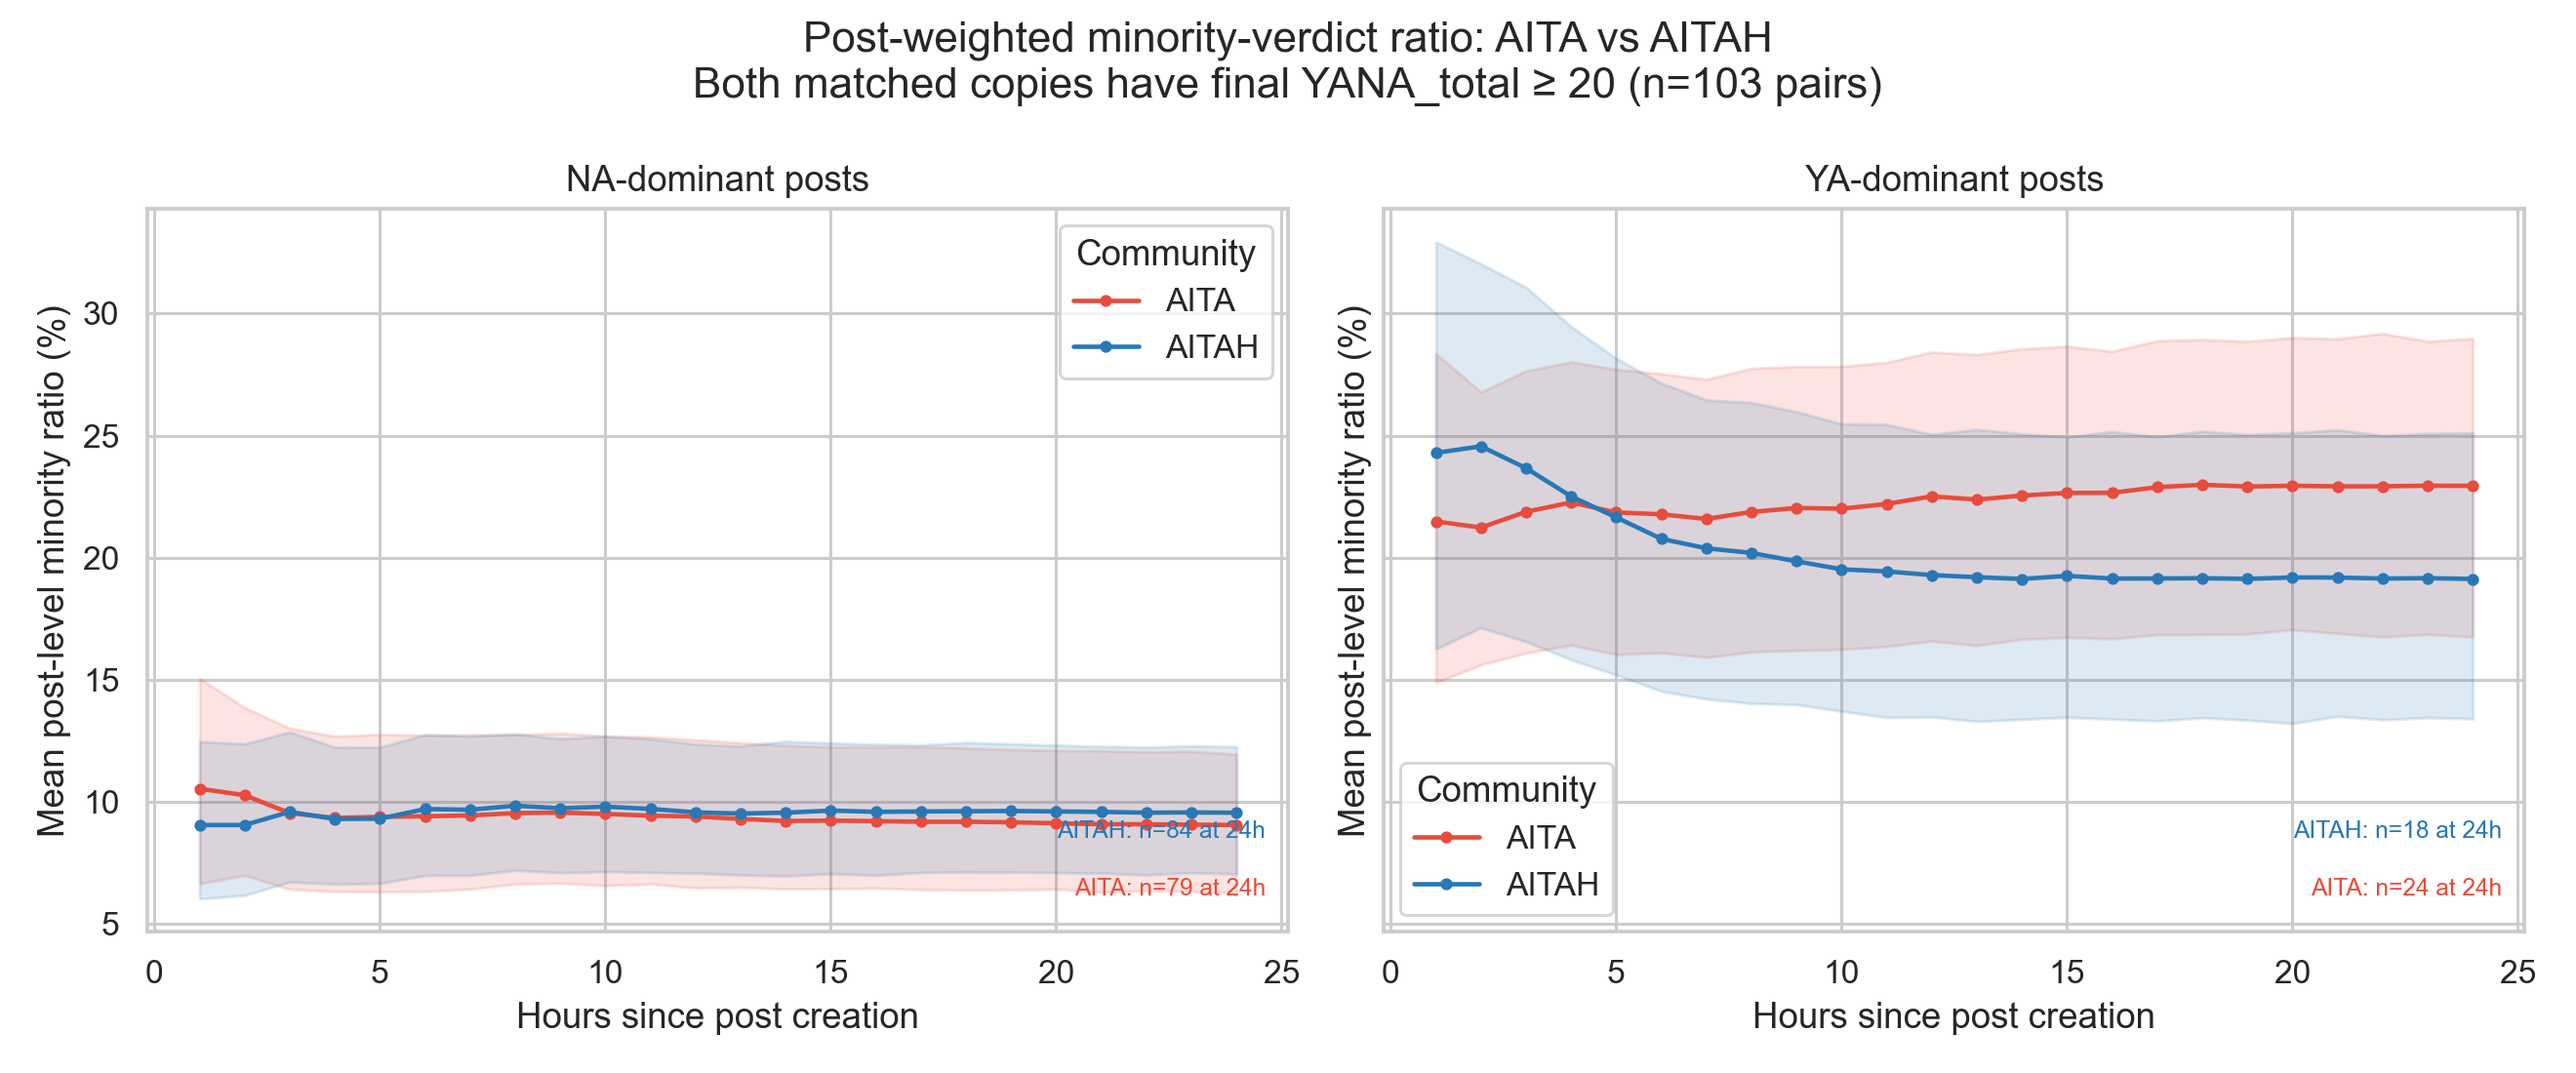
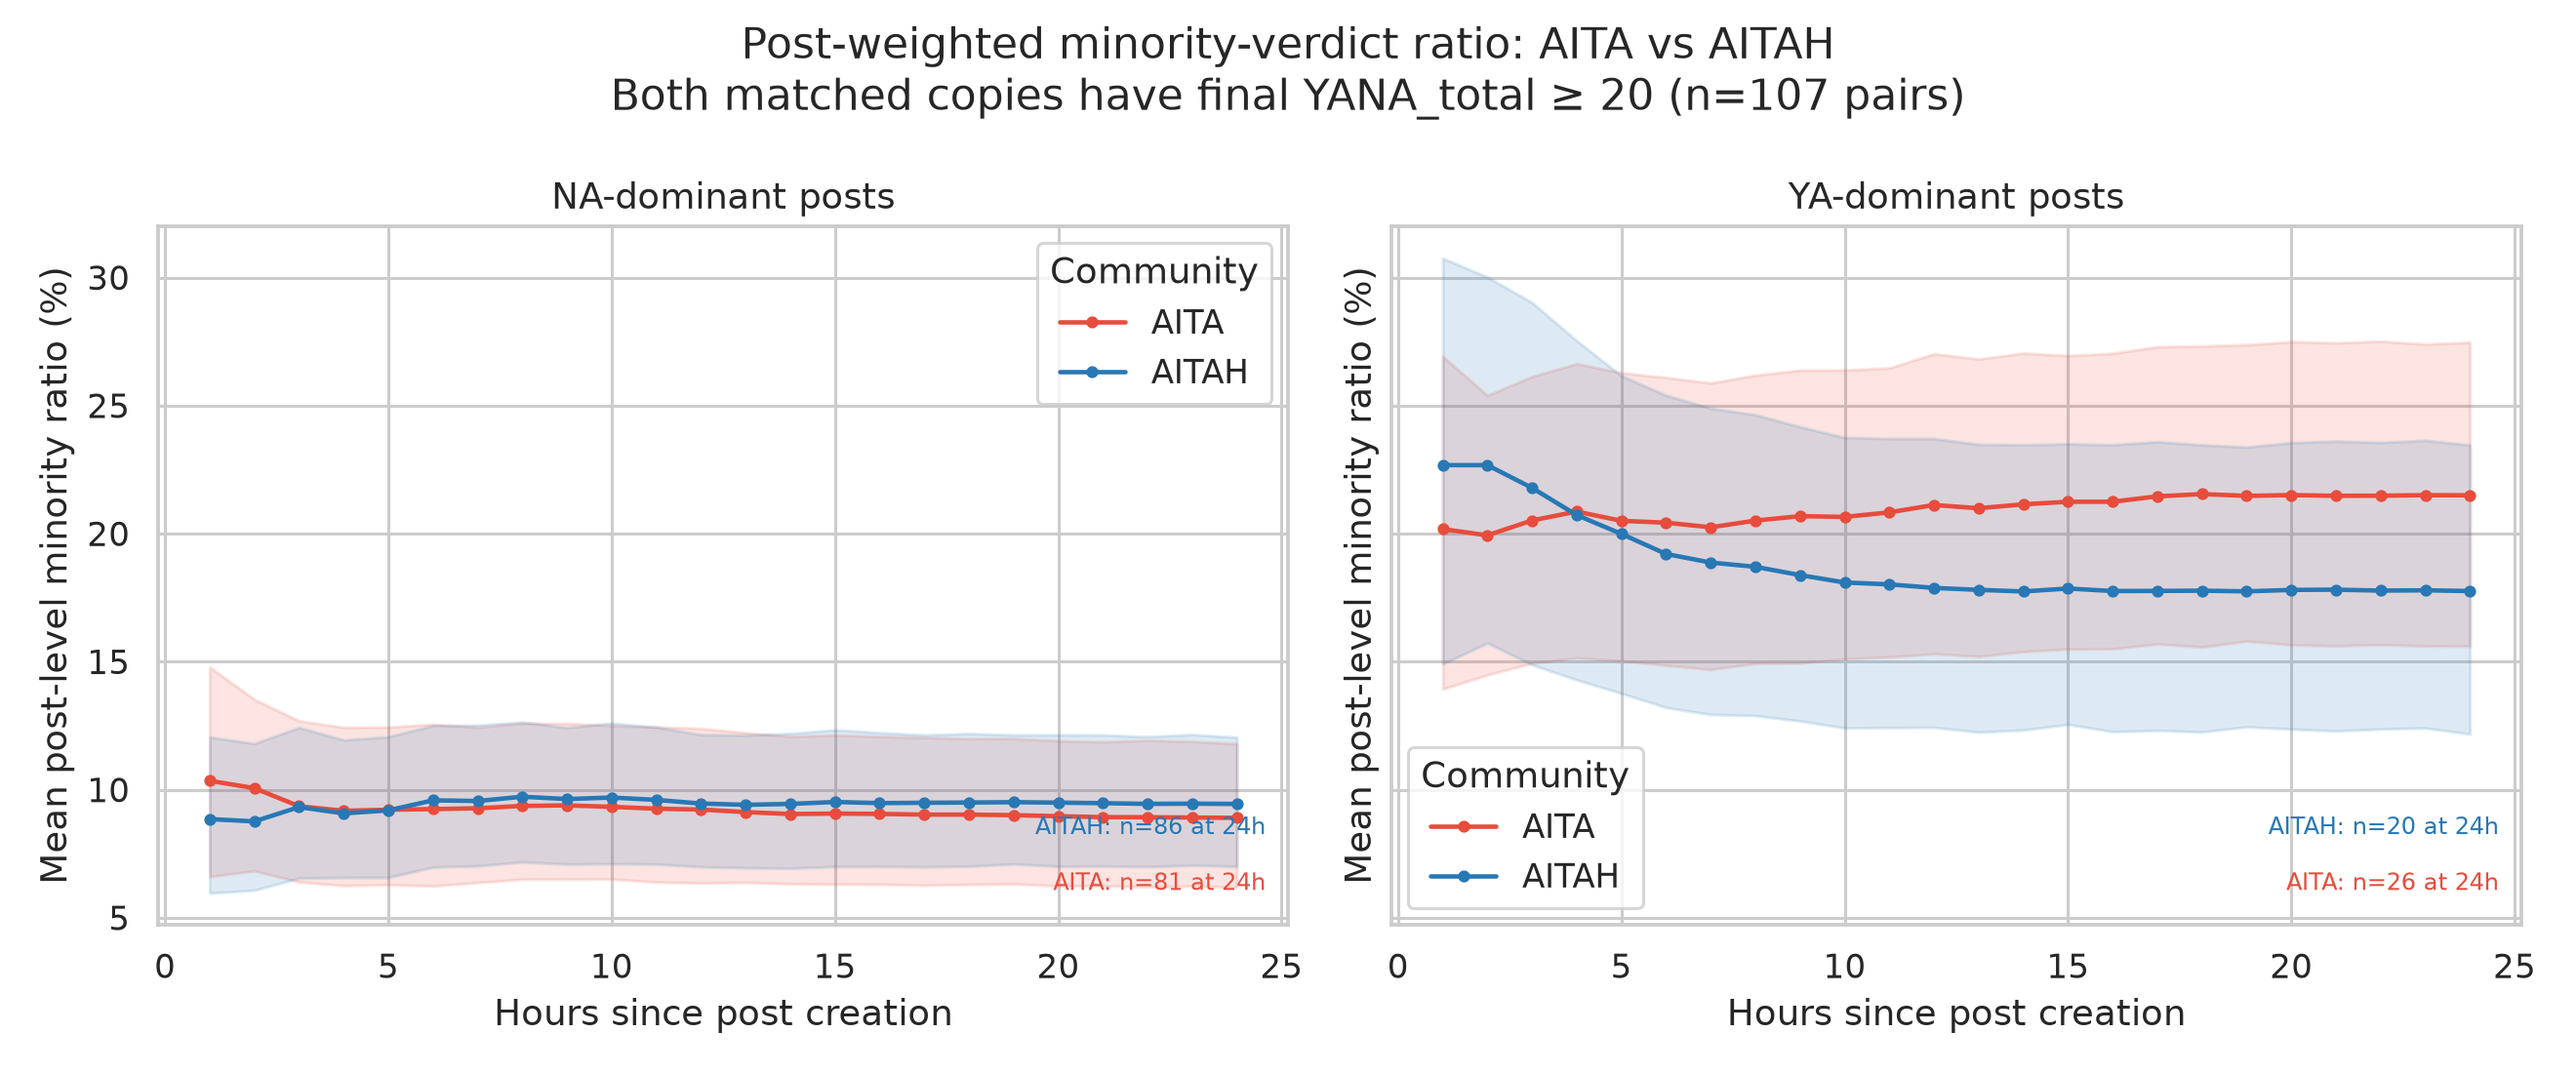
Updates from Overleaf

diff --git a/sections/4_results.tex b/sections/4_results.tex
@@ -272,30 +272,30 @@ majority- and minority-side comments during the first 25 hours after
 submission. Majority-side comments express greater certainty than
 minority-side comments throughout, in both communities.
 
-The two communities differ in how minority certainty moves across the window.
-In AITA it increases steadily ($p\approx2\times10^{-9}$); in AITAH it is
-essentially flat ($p=.59$). The increase is a trend rather than a step:
-estimating a post-threshold indicator alongside the time trend leaves no
-discontinuity at the $18$-hour verdict flair
-\textbf{[TODO: report the threshold-term statistic]}. Whatever makes late
-dissent in AITA more assertive therefore accumulates over the course of a
-discussion instead of switching on when the verdict is posted, which points to
-a gradual shift in the conversational environment---and in which dissenters are
-still speaking---rather than to an immediate effect of the announcement. The
-absence of a jump is also what the verdict dynamics of
-\S\ref{subsec:res-distribution} would lead one to expect: in $99.2\%$ of
-consensual posts the winning verdict leads from the first comment, so by the
-$18$-hour mark the flair states officially what the thread has displayed for
-hours, and there is little left for it to reveal.
-\textbf{[TODO: relabel YA/NA in AITAH]}
+AITA shows a significant increase in overall comment certainty after the 18-hour flair lock, from 3.730 to 3.742 (\(p=2.68\times10^{-8}\)). In contrast, AITAH shows no significant pre–post change (\(p=0.111\)). Minority certainty continues to increase beyond the 18-hour mark in AITA, whereas it declines in AITAH. This contrasting trajectory suggests that the verdict flair may act as an incentive for minority commenters to continue participating and express their dissent more assertively. This pattern is consistent with the possibility that the visible flair acts as a social signal that encourages minority commenters to express their disagreement with greater certainty.
+
+\textbf{[Done: relabel YA/NA in AITAH]}
+
+\textbf{[TODO: report the threshold-term statistic]}
+
+% The two communities differ in how minority certainty moves across the window. In AITA it increases steadily ($p\approx2\times10^{-9}$); in AITAH it is essentially flat ($p=.59$). The increase is a trend rather than a step: estimating a post-threshold indicator alongside the time trend leaves no discontinuity at the $18$-hour verdict flair \textbf{[TODO: report the threshold-term statistic]}. Whatever makes late dissent in AITA more assertive therefore accumulates over the course of a
+% discussion instead of switching on when the verdict is posted, which points to
+% a gradual shift in the conversational environment---and in which dissenters are
+% still speaking---rather than to an immediate effect of the announcement. The
+% absence of a jump is also what the verdict dynamics of
+% \S\ref{subsec:res-distribution} would lead one to expect: in $99.2\%$ of
+% consensual posts the winning verdict leads from the first comment, so by the
+% $18$-hour mark the flair states officially what the % thread has displayed for
+% hours, and there is little left for it to reveal.
+% \textbf{[TODO: relabel YA/NA in AITAH]}
 
 \paragraph{Minority verdict ratio over time.}
 Figure~\ref{fig:minority-ratio-time} shows minority participation develops differently depending on whether the minority accuses or defends the OP. In both communities, accusing minorities in NA-dominant posts remain relatively stable or gradually increase over time. By contrast, defending minorities in YA-dominant posts follow different trajectories: their cumulative share rises slightly in AITA but declines sharply in AITAH, from approximately 11\% to 7\%. 
 
 
 
-Certainty / share changes over time
-18h rule - Formalizing consensus amplifies dissent or not?
+% Certainty / share changes over time
+% 18h rule - Formalizing consensus amplifies dissent or not?
 
 \begin{figure}[t]
     \centering
@@ -307,7 +307,7 @@ Certainty / share changes over time
     approximately 18-hour AutoModerator verdict-flair lock; it is shown for
     AITAH only as a placebo cut-off, since nothing occurs there at that time.
     Minority certainty increases across the window in AITA
-    ($p \approx 2 \times 10^{-9}$) but not in AITAH ($p=.59$); neither
+    ($p \approx 2.87 \times 10^{-8}$) but not in AITAH ($p=0.99$); neither
     community shows a discontinuity at the threshold itself.}
     \label{fig:certainty-time-series}
 \end{figure}
@@ -365,7 +365,7 @@ A different pattern emerges in YA-dominant posts, where NA judgments constitute 
     \includegraphics[width=\columnwidth]
     {figures/minority_verdict_ratio_aita_aitah.png}
     \caption{Post-weighted minority-verdict ratios during the first 24 hours
-    after post creation in 103 matched AITA--AITAH post pairs. The left panel
+    after post creation in 107 matched AITA--AITAH post pairs. The left panel
     presents NA-dominant posts, in which YA judgments form the minority; the
     right panel presents YA-dominant posts, in which NA judgments form the
     minority. Lines represent community-level mean post-level minority ratios,
